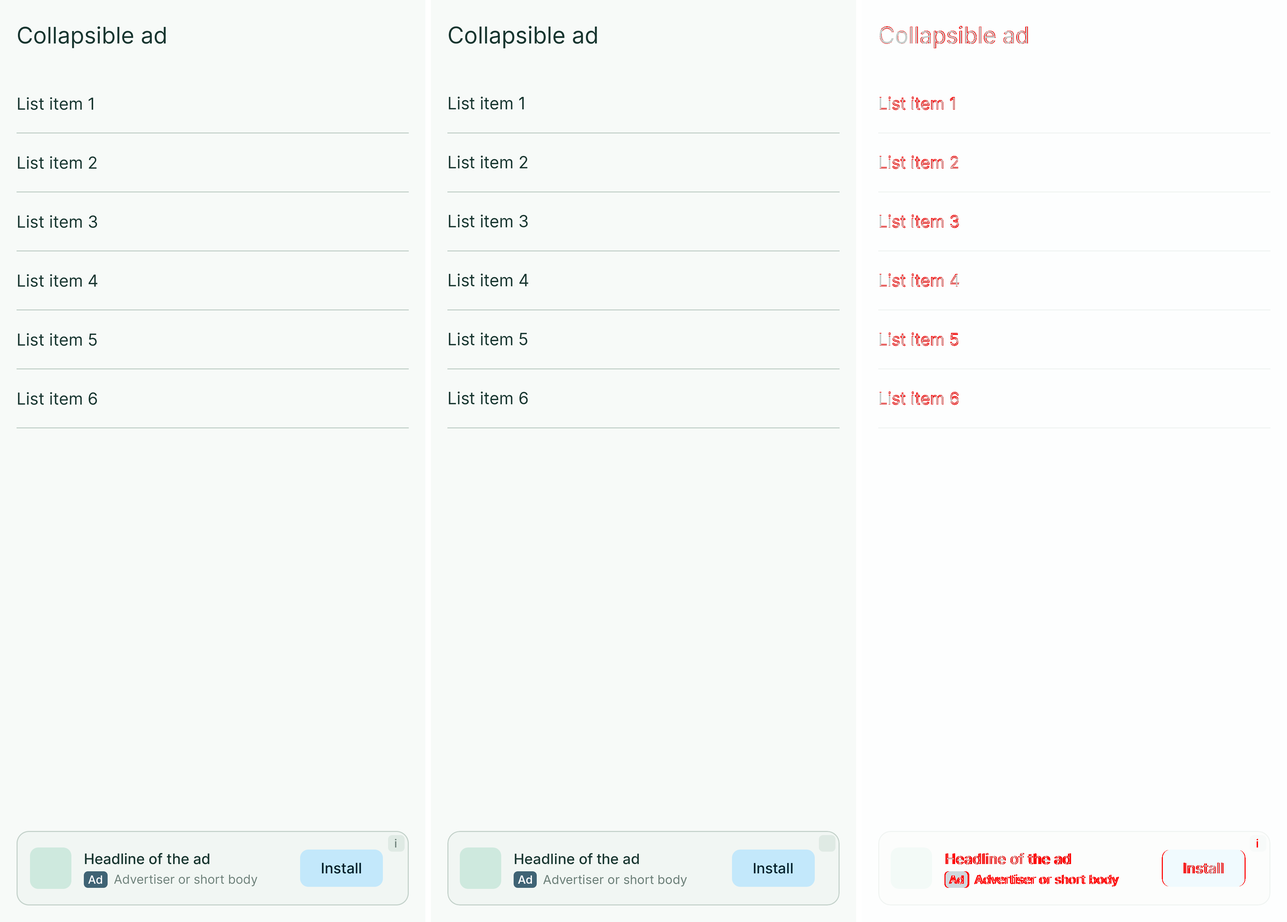
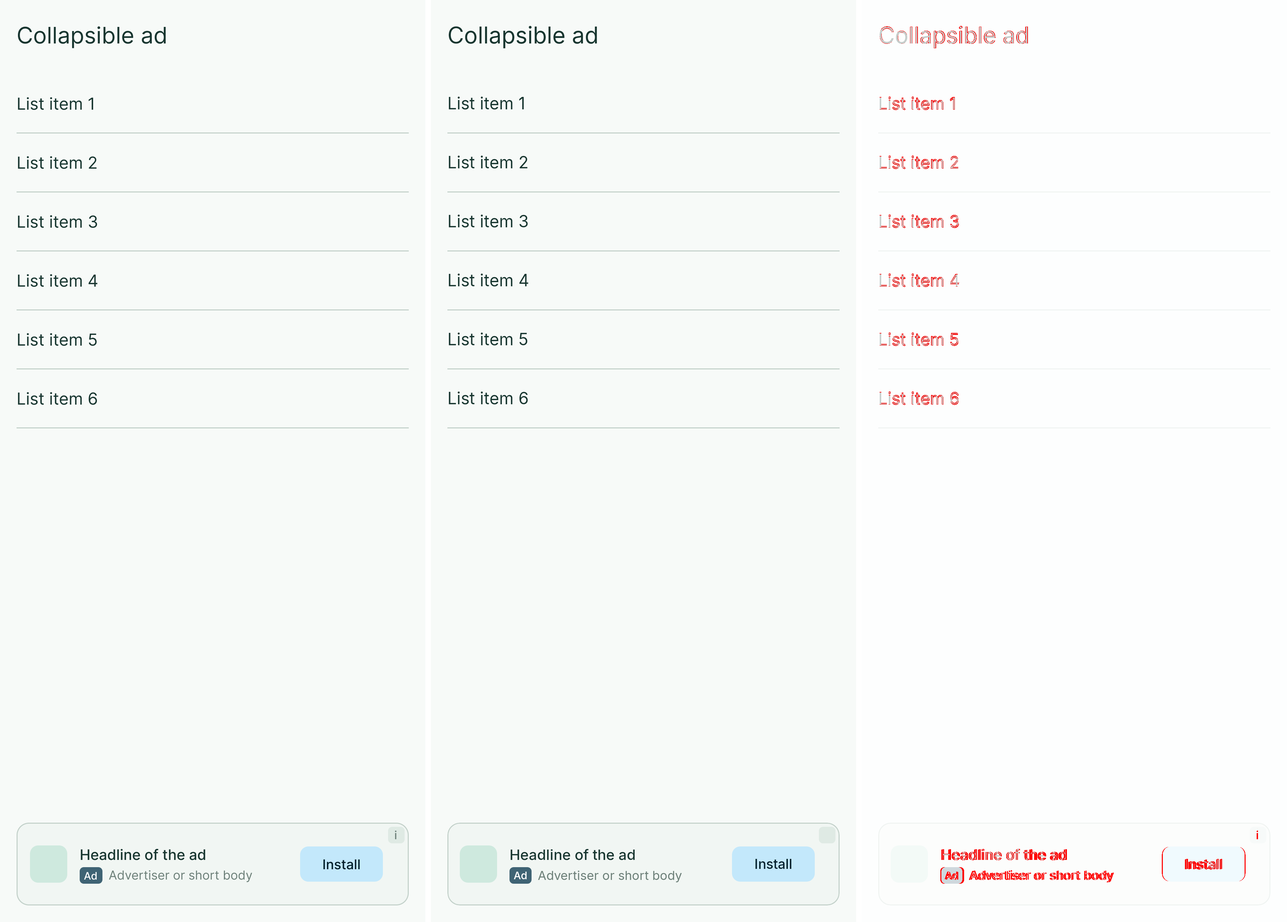
docs(T-030): hướng dẫn thanh đáy, README thiết kế và ảnh so sánh
Claude-Session: https://claude.ai/code/session_01UrAq5S8Jg8iHXZV2KjHETj

diff --git a/docs/ops/ads-guide.md b/docs/ops/ads-guide.md
@@ -42,7 +42,7 @@ Tùy chọn yêu cầu native (O-06: video tắt tiếng, không điều khiển
 | Quảng cáo khi quay lại app | Mọi lần app lên foreground, trừ lần đầu của process | `show_resum_ads`, `resume_ad_type` | (đợt 3) |
 | Interstitial | Hành động của người dùng (sang màn sau, xong một việc) | `is_show_<mã vị trí>`, cách nhau `ads_interval` hay `ads_interval_<nhóm>` | Có (đợt 2, `rememberShowFullScreenAd`), luật mới ở đợt 3 |
 | Native toàn màn hình sau inter (combo) | Ngay sau inter, đếm ngược 3 giây | `is_show_native_after_inter` | Có (T-026): mọi inter của feature qua được cổng thì, khi khóa bật lúc inter kết thúc, có native toàn màn hình của vị trí toàn app `native_combo` (không có `is_show_<mã vị trí>`); feature không gọi. Inter lúc mở app (T-024) không nối combo |
-| Thanh đáy: native nhỏ 80 dp và native thu gọn 250 dp, hoặc banner | Đáy màn hình nội dung, mỗi màn một vị trí | `is_show_<mã vị trí>`, `is_show_native_bottom`, `is_show_native_collap`, `time_expand_collap_ad` | Native small (`NativeAdSlot`) có ở cỡ 80 dp (T-027), thay nội dung mỗi 60 giây ở foreground (T-040); native thu gọn (`CollapsibleNativeAdSlot`) có ở cỡ đợt 2, 250 dp và làm mới ở T-030 |
+| Thanh đáy: native nhỏ 80 dp và native thu gọn 250 dp, hoặc banner | Đáy màn hình nội dung, mỗi màn một vị trí | `is_show_<mã vị trí>`, `is_show_native_bottom`, `is_show_native_collap`, `time_expand_collap_ad` | Có (T-030, `BottomAdBarScaffold`): khe native nhỏ 80 dp (T-027) hoặc banner cố định, lớp native thu gọn 250 dp nổi trên khe, tự mở lại sau `time_expand_collap_ad` giây; khe và lớp thay nội dung mỗi 60 giây ở foreground (T-040) |
 | Banner cố định, banner thu gọn | Đáy màn hình | `is_show_<mã vị trí>` | Có (T-029, `AdSlot`): banner cố định làm mới theo đơn vị, banner thu gọn nạp lại mỗi 30 giây |
 | Native medium | Trong nội dung | `is_show_<mã vị trí>` | Có (T-028): cỡ thiết kế vẽ lại 410 dp, lấy quảng cáo từ pool (`NativeAdSlot`, hàng trong danh sách, `NativeAdCell`) |
 | Native trong tập hợp (ô lưới, danh sách, trang của pager) | Mỗi ô một quảng cáo riêng | `is_show_<mã vị trí>` | Có (T-028): định dạng `native_in_collection` vẽ thẻ dọc, medium vẽ medium, lấy từ pool; danh sách và lưới qua `itemsWithInListAds`, ô tự đặt và trang pager qua `NativeAdCell` (chưa có vị trí; vị trí xem thử ở T-036) |
@@ -94,7 +94,7 @@ Vị trí là quyết định kinh doanh: chỉ thêm khi spec đã duyệt có 
    - **Một dòng cho mỗi vị trí:** `release.sh` đọc cả dòng có thuộc tính (nhóm giãn cách riêng, `nativeEvery`, `ignoreInterval`...), nhưng từ chối phát hành khi một vị trí khai báo trên nhiều dòng; `AdPlacementSourceTest` của `:core:ads` báo lỗi khi script không đọc được một vị trí. Dòng dài quá 120 ký tự thì rút gọn thuộc tính (ví dụ đặt nhóm giãn cách thành hằng), không xuống dòng.
 3. **Khóa:** không đặt tên tay. Khóa suy ra từ khai báo: `is_show_<mã vị trí>` (mặc định tắt), `ads_interval_<nhóm>` nếu có nhóm riêng, `<tham số>_<mã vị trí>` cho tham số riêng (câu hỏi 28 của spec ads). Muốn giữ đúng chuỗi khóa của AdsKit thì chọn mã vị trí trùng (ví dụ vị trí `rw_get_item` cho `is_show_rw_get_item`). Bảng khóa sinh lại tự động.
 4. **Màn hình:** gọi composable hay hàm của `:core:ads` với vị trí: banner, native, thanh đáy, ô trong tập hợp, `rememberShowInterstitial(placement)` ở hành động của người dùng, hộp thoại rewarded trước hành động có điều kiện. Feature không gọi SDK quảng cáo, không đọc khóa quảng cáo. Màn hình mở màn khác của hệ thống (chọn ảnh, camera, chia sẻ) dùng cách chặn quảng cáo tự hiện của `:core:ads` (`ads-business-rules.md`, mục 6).
-   - Hiện có (đợt 2): `AdSlot(placement)` (banner cố định hay banner thu gọn, theo định dạng của vị trí, T-029; banner thu gọn đặt ở đáy màn hình), `NativeAdSlot(placement)` (native small, medium; `keepSpaceWhenEmpty = true` khi vị trí cạnh nút của app), `rememberShowFullScreenAd(placement)` (interstitial và native toàn màn hình; hàm cũ `rememberShowInterstitial` vẫn chạy cho interstitial). Native toàn màn hình hiện trong hộp thoại do `FullScreenAdHost()` của `:app` vẽ, dùng chung giới hạn tần suất với interstitial, và không hiện gì khi chưa tải sẵn xong. Màn hình nhận phần quảng cáo qua một tham số composable, mặc định là `NativeAdSlot`, như `bottomAd` của `SampleScreen`.
+   - Hiện có (đợt 2): `AdSlot(placement)` (banner cố định hay banner thu gọn, theo định dạng của vị trí, T-029; banner thu gọn đặt ở đáy màn hình), `NativeAdSlot(placement)` (native small, medium; `keepSpaceWhenEmpty = true` khi vị trí cạnh nút của app), `rememberShowFullScreenAd(placement)` (interstitial và native toàn màn hình; hàm cũ `rememberShowInterstitial` vẫn chạy cho interstitial). Native toàn màn hình hiện trong hộp thoại do `FullScreenAdHost()` của `:app` vẽ, dùng chung giới hạn tần suất với interstitial, và không hiện gì khi chưa tải sẵn xong. Màn hình nhận phần quảng cáo qua một tham số composable, mặc định là composable của `:core:ads`, như `bottomBar` của `SampleScreen` (mặc định `BottomAdBarScaffold`).
    - **Mở màn của hệ thống hay rời app** (`ads-business-rules.md`, mục 6, G-03): để người dùng quay lại không gặp quảng cáo khi quay lại app.
      - Màn chọn ảnh, camera, hộp thoại quyền: `val adSuppression = rememberAdSuppression()`, gọi `adSuppression.hold()` ngay trước khi mở, `adSuppression.release()` ở dòng đầu của callback kết quả, kể cả khi mở thất bại. Composable rời màn thì tự nhả.
      - Màn của app chiếm toàn màn hình (trang native toàn trang): đặt `SuppressResumeAds(active = <trang đang hiện>)` trong màn đó. Native sau inter và native toàn màn hình của `rememberShowFullScreenAd` do `:core:ads` tự chặn (T-026), feature không đặt gì.
@@ -113,9 +113,9 @@ Vị trí là quyết định kinh doanh: chỉ thêm khi spec đã duyệt có 
    - **Ô tự đặt và trang của pager:** `NativeAdCell(placement, modifier, viewed, onAdAvailabilityChange, onScreen)` vẽ thẻ dọc hay medium theo định dạng của vị trí (định dạng khác: `IllegalArgumentException`). Trong pager, truyền `viewed = pagerState.isPageSettled(page)`: ô chỉ tính là đã xem (`ad_opportunity`, P-07) khi trang đứng yên; và `onScreen = pagerState.isPageVisible(page)`: trang cuộn khỏi màn trả quảng cáo về pool, quay lại thì lấy lại. `ads.positions(itemCount)` cho các vị trí trang quảng cáo.
    - **Thuộc tính vị trí:** `ctaLarge = true` (chỉ medium) cho CTA lớn; `keepSpaceWhenPoolEmpty = true` (chỉ định dạng có pool) để ô giữ khung chờ khi pool cạn. Khai sai định dạng thì lỗi ngay khi nạp lớp.
    - N trên Remote Config nên từ 5 trở lên; N = 1 nghĩa là quảng cáo xen giữa mọi mục. Code không chặn, giá trị là quyết định của người vận hành (ADR-0023).
-   - **Native thu gọn** (vị trí định dạng `NATIVE_COLLAPSIBLE`): đặt `CollapsibleNativeAdSlot(placement)`. Màn hình gọi tự đặt nó ở đáy; slot chỉ chiếm chiều rộng được cho, không tự ghim. Quảng cáo mở dạng medium có nút thu gọn 48 dp ở góc trên trái, chạm thì thành dạng small và không mở lại trong lần vào màn hình đó, kể cả khi xoay máy, quay lại từ ngăn xếp hay tải quảng cáo mới. Screenshot test truyền `CollapsibleNativeAdCard(assets, collapsed, onCollapse = {})` giả.
+   - **Thanh đáy** (MC-08, D-01 tới D-05, T-030): mỗi màn có thanh đáy là một vị trí khai báo định dạng `native_small`; màn bọc nội dung trong `BottomAdBarScaffold(placement) { padding -> nội dung }` và đặt `padding` vào phần nội dung cuộn. Khe đáy là native nhỏ 80 dp khi `is_show_native_bottom` bật, không thì banner cố định neo đáy, không lề. Khi thêm `is_show_native_collap` bật, lớp native thu gọn 250 dp nổi trên khe, cách mép 16 dp, chỉ lấp chiều rộng: phần màn phía trên lớp vẫn nhận chạm. Lớp có nút thu gọn 32 dp ở góc trên phải (vùng chạm 48 dp), AdChoices ở góc trên trái; chạm thì lớp ẩn, lộ khe bên dưới, và tự mở lại sau `time_expand_collap_ad` giây (mặc định 30, 0 là không mở lại) đếm từ lúc chạm, kể cả khi xoay máy; lần làm mới không đổi trạng thái thu gọn. Nội dung chỉ được chừa chỗ khi khe đã có quảng cáo: khe native 96 dp (khe 80 dp và lề đáy 16 dp), banner bằng chiều cao khung; lúc khe đang tải và lớp nổi không được chừa. Lớp banner và lớp thu gọn ghi số liệu với mã vị trí của thanh và định dạng thật của lớp (`banner`, `native_collap`). `native_collap` không vẽ riêng ngoài thanh đáy (`CollapsibleNativeAdSlot` đã bỏ). Test không có `AdsController` nên thanh chỉ vẽ nội dung; screenshot test truyền `BottomAdBarLayout(reservation = BottomAdBarDefaults.nativeReservation, slot = { NativeAdCard(...) }, layer = { CollapsibleNativeAdCard(...) }, content = ...)` giả.
 5. **Test:** test không có `LocalAdsController` nên slot quảng cáo không vẽ gì; screenshot test truyền `NativeAdCard` giả (hay `NativeAdPlaceholder(size, animated = false)` cho trạng thái đang tải) qua tham số quảng cáo của màn hình, để ảnh có quảng cáo như thiết kế, như `SampleScreenScreenshotTest`; test ViewModel cho hành động có điều kiện (xem xong thì làm, không xem được thì theo chính sách) và điểm gọi interstitial nếu có logic.
-6. **Mã quảng cáo production:** tạo đơn vị quảng cáo trên AdMob, ghi vào `release.properties` lúc phát hành ([release.md](release.md)); không vào repo. Đơn vị của vị trí `banner` bật tự làm mới trên AdMob (app không tự tải lại); đơn vị của vị trí `banner_collapsible` tắt tự làm mới (`:core:ads` nạp lại mỗi 30 giây, T-029).
+6. **Mã quảng cáo production:** tạo đơn vị quảng cáo trên AdMob, ghi vào `release.properties` lúc phát hành ([release.md](release.md)); không vào repo. Đơn vị của vị trí `banner` bật tự làm mới trên AdMob (app không tự tải lại); đơn vị của vị trí `banner_collapsible` tắt tự làm mới (`:core:ads` nạp lại mỗi 30 giây, T-029). Thanh đáy: production hôm nay chỉ có mã của định dạng chính của vị trí (khe native nhỏ); lớp banner và lớp native thu gọn chưa có mã (`AdUnitIds.of(placement, format)` trả `null`, lớp không gửi, không chiếm chỗ) tới khi có mã theo khe ở `release.sh` (câu hỏi 14 của spec, việc của người). Bản phát hành trước lúc đó: tắt `is_show_native_bottom` thì đáy không có banner, và không có lớp thu gọn. Staging dùng mã thử theo định dạng của lớp nên thấy đủ ba lớp.
 7. **Bật:** sau khi bản production có vị trí đã lên Play, người phụ trách bật khóa trên Firebase theo [remote-config.md](remote-config.md), mục 5.
 
 Cần một định dạng mới hay một cơ chế mới (không phải một vị trí mới) thì không làm trong app: đề xuất về dự án mẫu (`docs/ops/from-app.md`).
@@ -127,7 +127,7 @@ Luật đầy đủ ở `ads-business-rules.md`, mục 3 và 4. Tóm tắt cho n
 - `ads_interval` (mặc định 45 giây): khoảng tối thiểu từ lúc inter gần nhất của nhóm mặc định rời màn (hoặc cả cụm inter và native) tới inter sau. Vị trí có nhóm giãn cách riêng dùng `ads_interval_<nhóm>` và mốc riêng của nhóm. Chỉ tính trong một lần mở app; mở lại app thì bắt đầu lại. App open và rewarded không tính.
 - App open lúc mở app và inter lúc mở app (`open_ad_type = inter`) không bị `ads_interval` chặn; inter lúc mở app vẫn đẩy mốc.
 - Quảng cáo khi quay lại app không có khoảng chờ thời gian; bị bỏ khi người dùng vừa bấm quảng cáo, vừa mở màn của hệ thống hay rời app có chủ đích.
-- Banner cố định làm mới theo cài đặt tự làm mới của đơn vị banner trên AdMob; banner thu gọn do `:core:ads` nạp lại 30 giây sau mỗi lần nạp được, mỗi lần là một banner bung ra mới (T-029). Banner lỗi nạp thì thử lại sau 2, 4, 6, 8 rồi 10 giây, không bỏ cuộc, gửi ngay khi mạng về. Banner chỉ gửi yêu cầu khi màn hình chứa nó đang hiện và cổng đồng ý cho phép ngay lúc gửi; lượt tới hạn khi màn không hiện thì chờ màn hiện lại, và banner tạm dừng khi màn bị che hay app xuống nền. Rút đồng ý khi banner đã có quảng cáo thì khung giữ chiều cao, quảng cáo ẩn; đồng ý lại thì nạp quảng cáo mới trong khung đó. Log thẻ `Ads`: `Banner <mã> retry in 2000 ms (failures 1, code 3)`, `Banner <mã> reload in 30000 ms`, `Banner <mã> request blocked`. Native small ở khe một quảng cáo thay nội dung tại chỗ mỗi 60 giây khi app ở foreground (T-040, CL-02): nhịp đầu 60 giây sau khi hiện quảng cáo đầu, sau mỗi lần đổi tính lại 60 giây; nhịp rơi lúc app ở nền thì bỏ, không dồn, về foreground không làm mới ngay. Mỗi lượt chờ quảng cáo tối đa 10 giây; không có thì giữ quảng cáo cũ và thử lại theo nhánh còn giữ quảng cáo (2, 4, 8, 16, 32 rồi 60 giây). Mọi lượt gửi của native small (lượt đầu, nạp tiếp, thử lại, làm mới) chờ foreground và hỏi cổng đồng ý ngay trước khi gửi. Lượt làm mới ghi `ad_load_success`, `ad_load_fail` không có `load_attempt`. Native medium và native trong danh sách không làm mới; native thu gọn làm mới ở T-030. Log thẻ `Ads`: `Native <mã> claimed`, `Native <mã> next load`, `Native <mã> claim lost, retry once`, `Native <mã> expired`, `Native <mã> late ad destroyed`, `Native <mã> source closed`, `Native <mã> refresh: loaded`, `refresh: failed, retry in 2000 ms (failures 1)`, `refresh: blocked`, `refresh: skipped (background)`.
+- Banner cố định làm mới theo cài đặt tự làm mới của đơn vị banner trên AdMob; banner thu gọn do `:core:ads` nạp lại 30 giây sau mỗi lần nạp được, mỗi lần là một banner bung ra mới (T-029). Banner lỗi nạp thì thử lại sau 2, 4, 6, 8 rồi 10 giây, không bỏ cuộc, gửi ngay khi mạng về. Banner chỉ gửi yêu cầu khi màn hình chứa nó đang hiện và cổng đồng ý cho phép ngay lúc gửi; lượt tới hạn khi màn không hiện thì chờ màn hiện lại, và banner tạm dừng khi màn bị che hay app xuống nền. Rút đồng ý khi banner đã có quảng cáo thì khung giữ chiều cao, quảng cáo ẩn; đồng ý lại thì nạp quảng cáo mới trong khung đó. Log thẻ `Ads`: `Banner <mã> retry in 2000 ms (failures 1, code 3)`, `Banner <mã> reload in 30000 ms`, `Banner <mã> request blocked`. Native small ở khe một quảng cáo thay nội dung tại chỗ mỗi 60 giây khi app ở foreground (T-040, CL-02): nhịp đầu 60 giây sau khi hiện quảng cáo đầu, sau mỗi lần đổi tính lại 60 giây; nhịp rơi lúc app ở nền thì bỏ, không dồn, về foreground không làm mới ngay. Mỗi lượt chờ quảng cáo tối đa 10 giây; không có thì giữ quảng cáo cũ và thử lại theo nhánh còn giữ quảng cáo (2, 4, 8, 16, 32 rồi 60 giây). Mọi lượt gửi của native small (lượt đầu, nạp tiếp, thử lại, làm mới) chờ foreground và hỏi cổng đồng ý ngay trước khi gửi. Lượt làm mới ghi `ad_load_success`, `ad_load_fail` không có `load_attempt`. Native medium và native trong danh sách không làm mới. Lớp native thu gọn của thanh đáy làm mới như native small (một quảng cáo và một quảng cáo chờ, 60 giây, CL-02), qua nguồn riêng theo cặp vị trí và định dạng; khi lớp bật, nhịp đầu của khe native ở đáy trễ 500 ms (60,5 giây sau quảng cáo đầu của khe, mục 5.7) để hai lượt nạp không gửi cùng lúc. Thu gọn rồi thì lớp mở lại sau `time_expand_collap_ad` giây đếm từ lúc chạm, hẹn giờ riêng mà lần làm mới không đặt lại; tới hạn mà chưa có quảng cáo thì mở khi quảng cáo về. Log thẻ `Ads`: `Bottom bar <mã>: slot=NATIVE collapsible=true` (hay `off`), `native_collapsed placement=<mã>`, `Collapsible <mã> re-expanded after 30 s`; khóa log và bộ đếm của lớp khác định dạng chính là `<mã vị trí>/<mã định dạng>`. Log thẻ `Ads`: `Native <mã> claimed`, `Native <mã> next load`, `Native <mã> claim lost, retry once`, `Native <mã> expired`, `Native <mã> late ad destroyed`, `Native <mã> source closed`, `Native <mã> refresh: loaded`, `refresh: failed, retry in 2000 ms (failures 1)`, `refresh: blocked`, `refresh: skipped (background)`.
 
 Khóa, kiểu và mặc định của mọi khóa quảng cáo: `ads-business-rules.md`, mục 10; bảng sinh từ code ở `docs/remote-config-keys.md`.
 
@@ -207,7 +207,7 @@ Luật đầy đủ ở `ads-business-rules.md`, S-20 tới S-25, F-04 tới F-0
 - Staging luôn dùng mã thử của Google theo định dạng (inter, banner, rewarded, app open, native; ADR-0013).
 - Bản staging dùng Firebase giả nên Remote Config không trả gì: staging bật mọi vị trí của `AdPlacement` bằng giá trị cục bộ (`StagingRemoteValuesModule`), trừ các vị trí toàn app: `open_app`, `open_app_inter` (bật bằng `show_open_ads`, `show_open_ads_first_open`) và `native_combo` (bật bằng `is_show_native_after_inter`, T-026), các khóa này cũng bật sẵn trên staging; Firebase staging vẫn tắt được từng vị trí. Thử combo: màn xem thử, bấm "Interstitial", đóng inter thì có native toàn màn hình với vòng 3, 2, 1 ở góc trên trái; nút quay lại không làm gì trong lúc đếm; hết đếm thì có nút X (log thẻ `VGL.Ads`: `Native combo opened`, `Native combo closed`).
 - Hộp thoại đồng ý: staging giả lập vùng EEA để thấy hộp thoại. Thử thêm: tắt mạng khi mở app (quyền tạm `ERROR_ALLOWED`), mở lại app sau khi đã đồng ý (`CACHED_EARLY`), rút đồng ý bằng nút quyền riêng tư.
-- Màn hình xem thử quảng cáo (chỉ staging, plan T-014): mở từ biểu tượng "Ad gallery" thứ hai trên máy. Ba trang: mặc định (native small, medium, nút "Interstitial", "Native full screen", "Open Ad Inspector"), "In-list ads" (xen small và medium sau mỗi N mục, N từ `native_every_<mã vị trí>`, mặc định 8), "Collapsible ad"; nút quay lại của máy về trang mặc định. Dùng 7 vị trí `gallery_*`, khoảng cách quảng cáo toàn màn hình như production (bấm lại trong 45 giây (`ads_interval`) sau khi inter đóng thì không hiện, log `THROTTLED`; khoảng cách tính từ lúc đóng, không từ lúc hiện, và chỉ trong process, mở lại app thì hiện được ngay). Ad Inspector chỉ mở trên emulator hoặc máy đã đăng ký thiết bị thử trên AdMob (https://support.google.com/admob/answer/9691433); máy chưa đăng ký thì màn hình báo lỗi kèm mã. Log ở thẻ `VGL.AdGallery` và `VGL.Ads`. Định dạng mới của đợt 3 thêm vào màn hình này ở T-036.
+- Màn hình xem thử quảng cáo (chỉ staging, plan T-014): mở từ biểu tượng "Ad gallery" thứ hai trên máy. Ba trang: mặc định (native small, medium, nút "Interstitial", "Native full screen", "Open Ad Inspector"), "In-list ads" (xen small và medium sau mỗi N mục, N từ `native_every_<mã vị trí>`, mặc định 8), "Collapsible ad" (danh sách trong thanh đáy của vị trí `gallery_native_small`: khe native nhỏ hay banner, lớp thu gọn 250 dp; T-030); nút quay lại của máy về trang mặc định. Dùng 7 vị trí `gallery_*`, khoảng cách quảng cáo toàn màn hình như production (bấm lại trong 45 giây (`ads_interval`) sau khi inter đóng thì không hiện, log `THROTTLED`; khoảng cách tính từ lúc đóng, không từ lúc hiện, và chỉ trong process, mở lại app thì hiện được ngay). Ad Inspector chỉ mở trên emulator hoặc máy đã đăng ký thiết bị thử trên AdMob (https://support.google.com/admob/answer/9691433); máy chưa đăng ký thì màn hình báo lỗi kèm mã. Log ở thẻ `VGL.AdGallery` và `VGL.Ads`. Định dạng mới của đợt 3 thêm vào màn hình này ở T-036.
 - Kiểm trên máy thật theo mục 2: nhãn "Ad", AdChoices, nút đóng và đếm ngược, thu gọn và bung lại, thanh đáy không che điều hướng của app.
 - Xem log `adb logcat -v threadtime | grep ' VGL\.'`: mỗi quyết định cổng có một dòng (ADR-0019).
 - App open lúc mở app (T-024): staging bật sẵn `show_open_ads`, `show_open_ads_first_open`. Đồng ý quảng cáo, rồi thử: lần đầu sau khi xóa dữ liệu app (khóa `show_open_ads_first_open`); mở lại app (lần thường, `show_open_ads`); đặt `open_ad_type = inter` trên Firebase staging để thấy inter thay app open; tắt khóa trên Firebase staging thì màn loading vào màn chính sau khoảng 2 giây. Màn loading đứng ở 100% trong lúc chờ, tối đa 40 giây từ lúc mở app (đồng ý 10 giây, SDK 35 giây, quảng cáo 40 giây). Log thẻ `VGL.Ads` có một dòng `startup ad: <lý do>` (`key off`, `consent timeout`, `consent closed`, `sdk timeout`, `ad timeout`, `ready`) kèm số mili giây từ lúc mở app.

diff --git a/docs/features/ads/design/README.md b/docs/features/ads/design/README.md
@@ -28,8 +28,8 @@ docs/design-system/tokens.json.
 | `AdGalleryScreen` (chỉ staging) | Small, medium, nút gọi quảng cáo toàn màn hình, Ad Inspector | `AdGalleryScreen_default_light` | KB-1, KB-2, KB-8 | T-014 |
 | `AdGalleryScreen` | Như trên, chế độ tối | `AdGalleryScreen_default_dark` | KB-1, KB-2, KB-8 | T-014 |
 | `AdGalleryScreen` | Native trong danh sách (khung minh họa với N = 3) | `AdGalleryScreen_inlist_light` | KB-3 | T-014 (T-011 làm phần chèn, có test riêng) |
-| `AdGalleryScreen` | Native thu gọn được, đang mở | `AdGalleryScreen_collapsible-expanded_light` | KB-4 | T-012 hay T-014 (câu hỏi ở plan hai ticket) |
-| `AdGalleryScreen` | Native thu gọn được, đã thu gọn | `AdGalleryScreen_collapsible-collapsed_light` | KB-4 | T-012 hay T-014 (câu hỏi ở plan hai ticket) |
+| `AdGalleryScreen` | Native thu gọn được, đang mở | `AdGalleryScreen_collapsible-expanded_light` | KB-4 | T-030 |
+| `AdGalleryScreen` | Native thu gọn được, đã thu gọn | `AdGalleryScreen_collapsible-collapsed_light` | KB-4 | T-030 |
 | `NativeFullScreenAdScreen` | Native toàn màn hình | `NativeFullScreenAdScreen_default_light` | KB-5 | T-013 |
 | `NativeFullScreenAdScreen` | Như trên, chế độ tối | `NativeFullScreenAdScreen_default_dark` | KB-5 | T-013 |
 
@@ -44,7 +44,7 @@ docs/design-system/tokens.json.
 - Mới: `Native/Step` (thẻ ở bước của luồng, 250 dp, icon 32 dp, CTA 36 dp) và `Native/Card` (thẻ dọc trong tập hợp; 180 x 300 dp là ví dụ, ô do lưới quyết định), mỗi component có trạng thái chờ.
 - Cỡ chữ 13, 10 và 17 sp không có trong bảng kiểu chữ: ghi đè trên component, code đặt cỡ chữ riêng trong composable quảng cáo của `:core:ads`.
 
-Ảnh đã đổi theo đợt này, thay ảnh của đợt 2: mọi ảnh trong bảng trên (khe đáy 80 dp đặt cách đáy 16 dp, lớp thu gọn sát đáy, medium và toàn màn hình theo số mới), và `NetworkLostScreen_default_light`, `NetworkLostScreen_default_dark` của feature network (khe đáy). Ticket code ghi lại ảnh chuẩn screenshot theo các ảnh này: T-027 (khe đáy và lớp thu gọn), T-030 (thanh đáy), T-032 (native trong tập hợp và bước của luồng). `Native/Step` và `Native/Card` chưa có màn hình riêng; ticket dùng chúng thêm ảnh màn hình khi cần.
+Ảnh đã đổi theo đợt này, thay ảnh của đợt 2: mọi ảnh trong bảng trên (khe đáy 80 dp đặt cách đáy 16 dp, lớp thu gọn cách đáy 16 dp, cùng mép dưới với khe, medium và toàn màn hình theo số mới), và `NetworkLostScreen_default_light`, `NetworkLostScreen_default_dark` của feature network (khe đáy). Ticket code ghi lại ảnh chuẩn screenshot theo các ảnh này: T-027 (khe đáy và lớp thu gọn), T-030 (thanh đáy), T-032 (native trong tập hợp và bước của luồng). `Native/Step` và `Native/Card` chưa có màn hình riêng; ticket dùng chúng thêm ảnh màn hình khi cần.
 
 ## 2. Bảng chữ
 
@@ -72,9 +72,9 @@ Chữ của màn hình xem thử chỉ ở staging, tiếng Anh, vẫn đặt tr
 | Nhà quảng cáo, mô tả | asset advertiser, body | `onSurfaceVariant` | `bodySmall`, `bodyMedium` | |
 | CTA quảng cáo | asset call to action | nền `tertiaryContainer`, chữ `onTertiaryContainer` | `labelLarge` (small: cỡ 13 sp; medium `cta_large`: 17 sp) | cao 34 dp ở small, 44 dp ở medium (56 dp khi `cta_large`), 36 dp ở đầy đủ và thẻ dọc, 52 dp ở toàn màn hình; bo 8 dp |
 | Icon quảng cáo | asset icon | | | 36 dp ở small, 40 dp ở medium và đầy đủ, 48 dp ở toàn màn hình; bo 8 dp |
-| Media | `MediaView` | nền chờ `surfaceContainer` | | ít nhất 120 x 120 dp; medium cao 196 dp, đầy đủ 200 dp, thu gọn mở 160 dp |
-| AdChoices | do SDK vẽ, góc trên phải | | | không đè, không vẽ lại |
-| Nút thu gọn | trong composable thu gọn | icon `onSurface` | | 48 dp, góc trên trái |
+| Media | `MediaView` | nền chờ `surfaceContainer` | | ít nhất 120 x 120 dp; medium cao 196 dp, đầy đủ 200 dp, lớp thu gọn lấp phần còn lại (134 dp) |
+| AdChoices | do SDK vẽ, góc trên phải (lớp thu gọn: góc trên trái) | | | không đè, không vẽ lại |
+| Nút thu gọn | trong lớp thu gọn của thanh đáy | nền `scrim` độ mờ 40%, icon trắng (ngoại lệ có tên `CollapseIconTint`, plan T-030, câu hỏi 8) | | vẽ 32 dp tròn cách góc trên phải 4 dp, icon 20 dp; vùng chạm 48 dp do Compose tự nới |
 | Nút đóng toàn màn hình | trong `NativeFullScreenAdScreen` | nền `surfaceContainerHigh`, icon `onSurface` | | vẽ 36 dp tròn tại (16, 24), vùng chạm 48 dp do Compose tự nới, góc trên trái |
 | Trạng thái đang tải | trong composable native | khối `surfaceContainerHighest` | | giữ đúng chiều cao của quảng cáo (small 80 dp, medium 410 dp, đầy đủ 418 dp, thẻ dọc 300 dp hay cỡ ô) |
 | Nút của app | `PrimaryButton` | `primary`, `onPrimary` | `labelLarge` đậm 600 | |
@@ -86,7 +86,7 @@ Chữ của màn hình xem thử chỉ ở staging, tiếng Anh, vẫn đặt tr
 
 - `SampleScreen`: vào màn hình, native small ở đáy hiện trạng thái đang tải rồi tới quảng cáo.
 - `AdGalleryScreen` (staging): bấm "Interstitial" hay "Native full screen" thì gọi quảng cáo toàn màn hình; bấm "Open Ad Inspector" thì mở Ad Inspector của AdMob.
-- Thu gọn: vào màn hình thì quảng cáo ở dạng mở; chạm nút thu gọn thì sang dạng thu gọn; không tự mở lại.
+- Thu gọn: vào màn hình thì lớp thu gọn 250 dp mở trên khe đáy; chạm nút thu gọn thì lớp ẩn, lộ khe native nhỏ 80 dp bên dưới; lớp tự mở lại sau `time_expand_collap_ad` giây (mặc định 30, 0 là không mở lại), đếm từ lúc chạm (CL-03, T-030).
 - `NativeFullScreenAdScreen`: chạm nút đóng hay nút quay lại của máy thì về màn hình trước.
 
 ## 5. Vị trí quảng cáo
@@ -150,3 +150,10 @@ Native medium theo thiết kế vẽ lại (T-028, 2026-10-26): medium cao 410 d
 | `AdGalleryScreen_default_light` | 2.0% | Thẻ medium 410 dp, vị trí tiêu đề, media, mô tả, CTA và các nút bên dưới trùng thiết kế. Khác: quảng cáo giả của màn xem thử không có điểm sao nên không vẽ sao (hàng sao vẫn giữ 16 dp), media giả che lớp nền sau media và không có nhãn "Media", "Advertiser or short body" thay "Advertiser", ô AdChoices giả không có chữ "i"; hàng nút "In-list ads", "Collapsible ad" ngoài thiết kế như T-014 |
 | `AdGalleryScreen_default_dark` | 2.0% | Như bản sáng |
 | `AdGalleryScreen_inlist_light` | 1.7% | Dòng small 112 dp và dòng medium 442 dp (410 + 16 + 16) đúng vị trí; khác ở chữ quảng cáo giả như trên |
+
+Thanh đáy và lớp native thu gọn 250 dp (T-030, 2026-10-26). Chạy thẳng `scripts/design-compare/DesignCompare.java` cho `app`, chép hai ảnh `AdGalleryScreen_collapsible-*_compare.png` vào `review/`; `review/summary.md` không đổi. Hai dòng `AdGalleryScreen_collapsible-*` ở bảng của T-014 phía trên là kết quả cũ (dạng 342 dp).
+
+| Màn hình | Điểm ảnh khác | Nhận xét |
+| --- | --- | --- |
+| `AdGalleryScreen_collapsible-expanded_light` | 0.7% | Lớp mở 250 dp ở y 625 tới 875, cách mép 16 dp; media 134 dp, icon 32 dp, tiêu đề 13 sp, CTA 36 dp, nút thu gọn 32 dp nền `scrim` 40% cách góc trên phải 4 dp trùng thiết kế. Khác: ô AdChoices giả (góc trên trái) không có chữ "i", media giả không có nhãn "Media", hai mép CTA lệch khoảng 1 dp (lề 12 dp tính từ mép ngoài, như các native khác) |
+| `AdGalleryScreen_collapsible-collapsed_light` | 0.7% | Lớp ẩn, khe đáy 80 dp ở y 795 tới 875 trùng thiết kế; khác ở chữ "i" của ô AdChoices giả |
